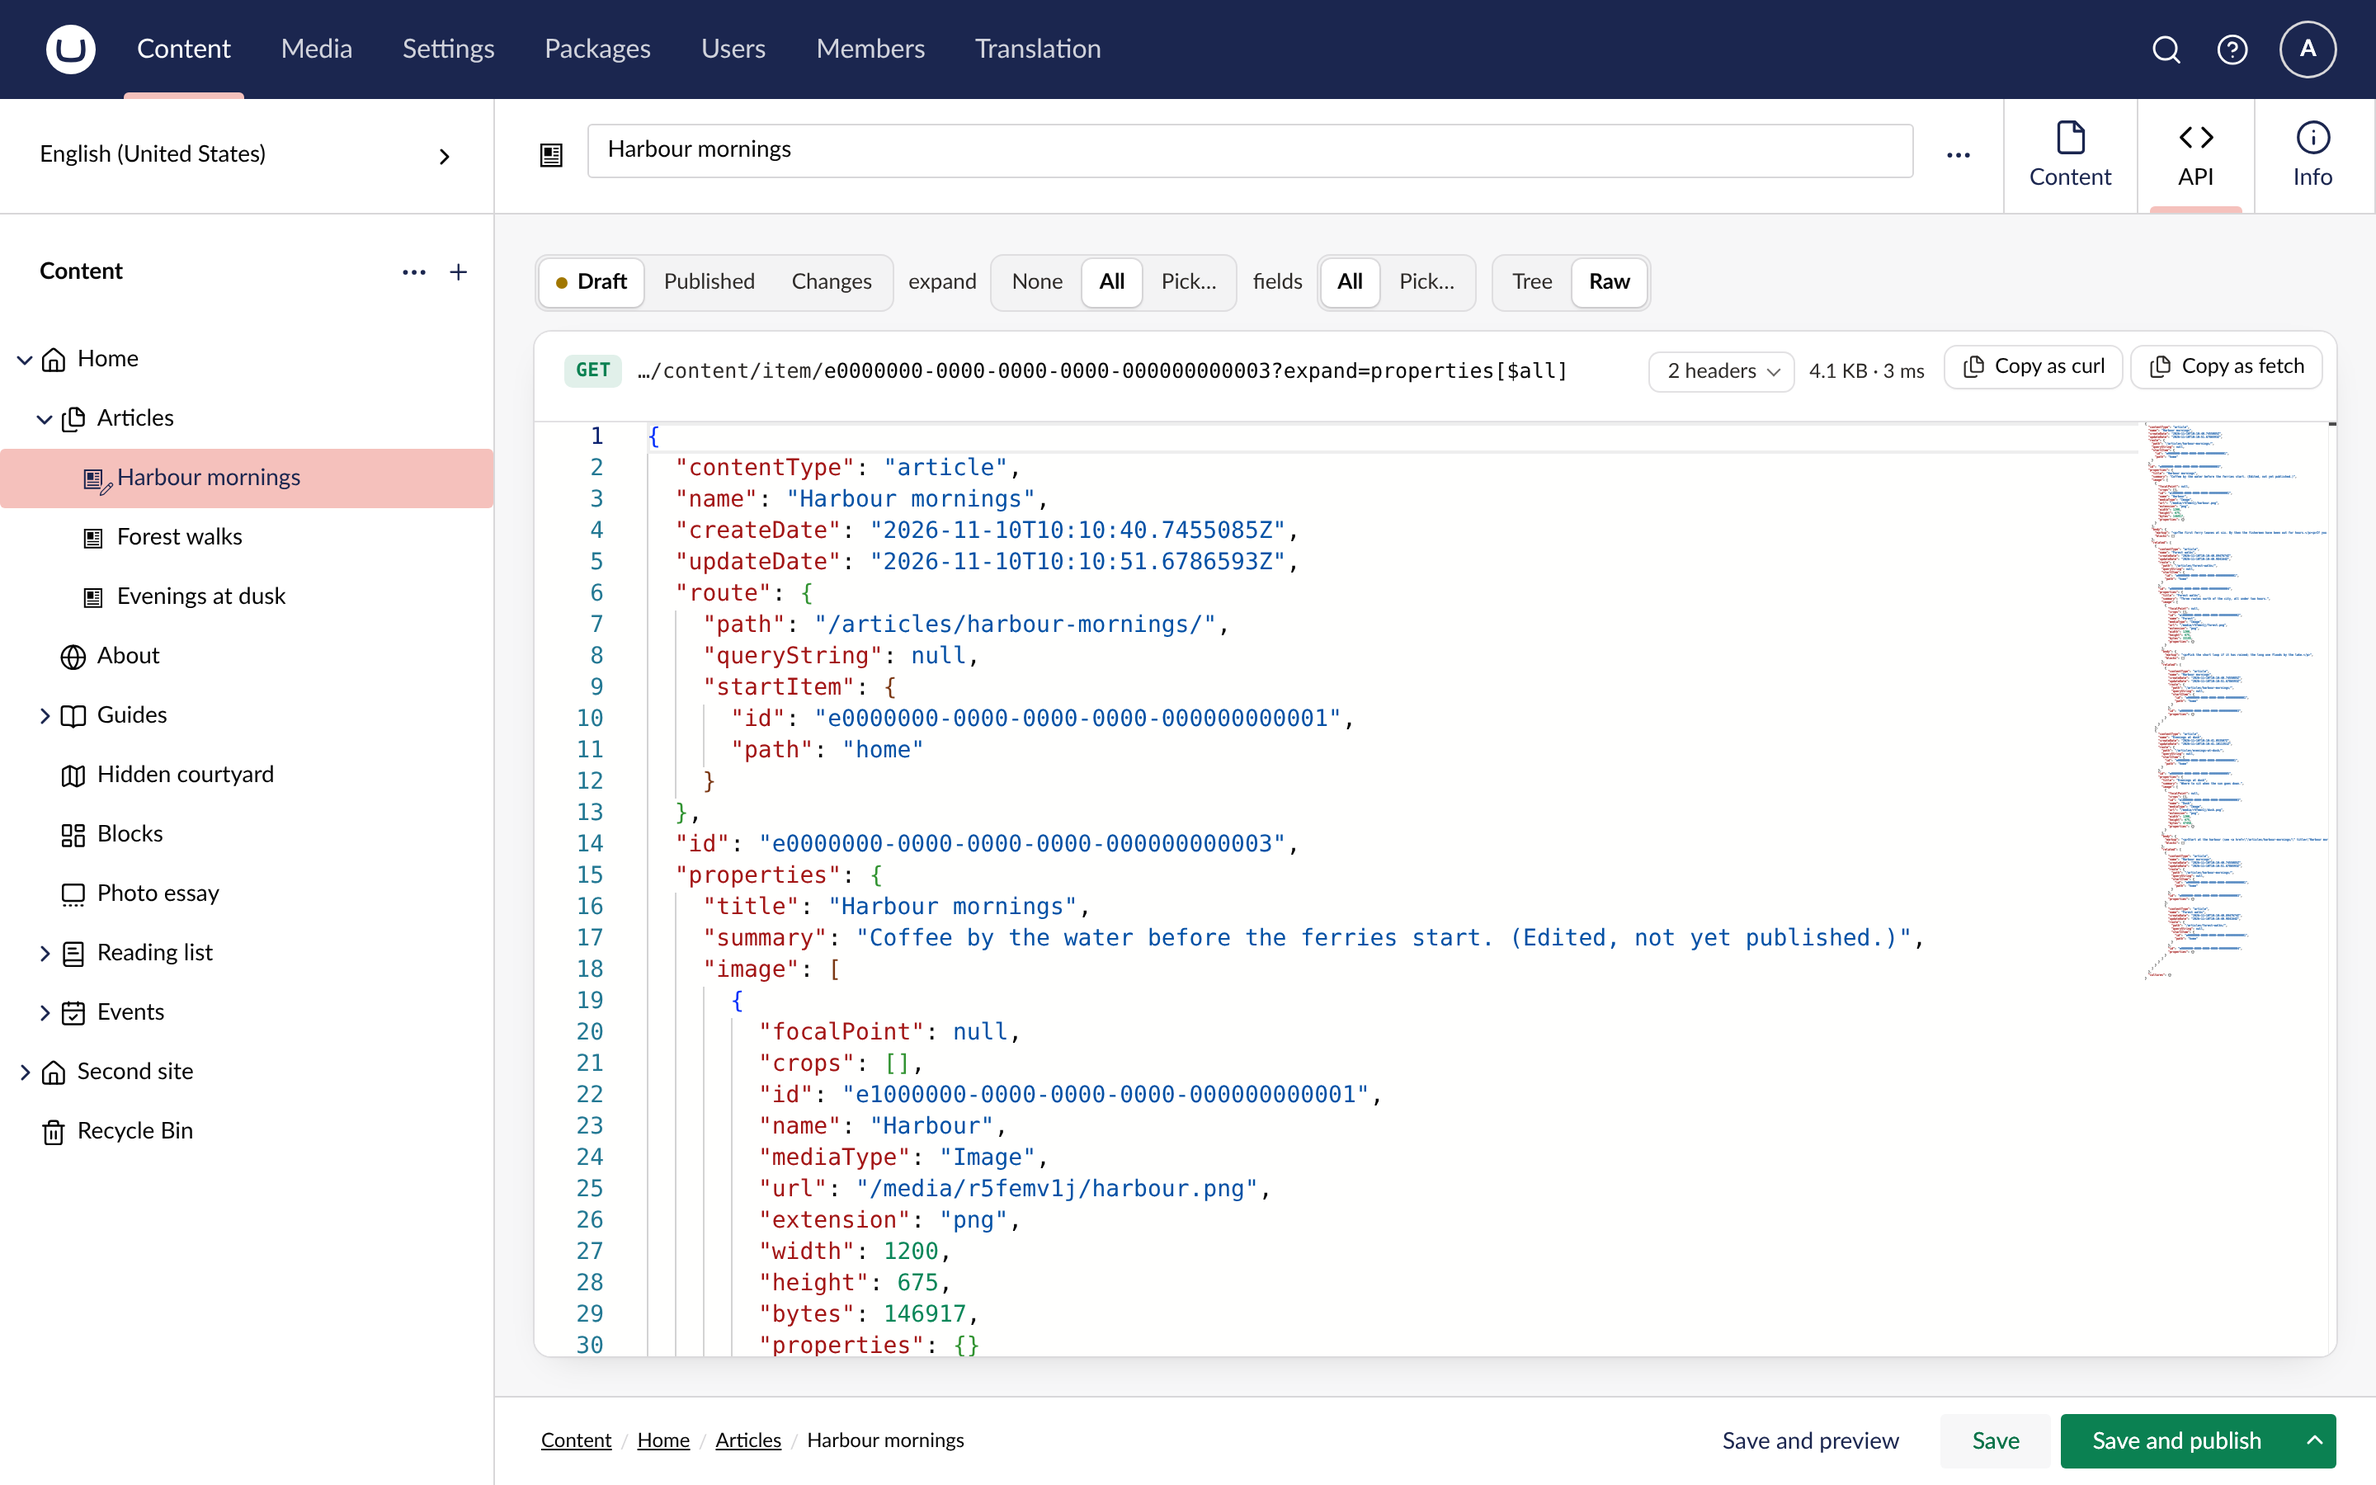
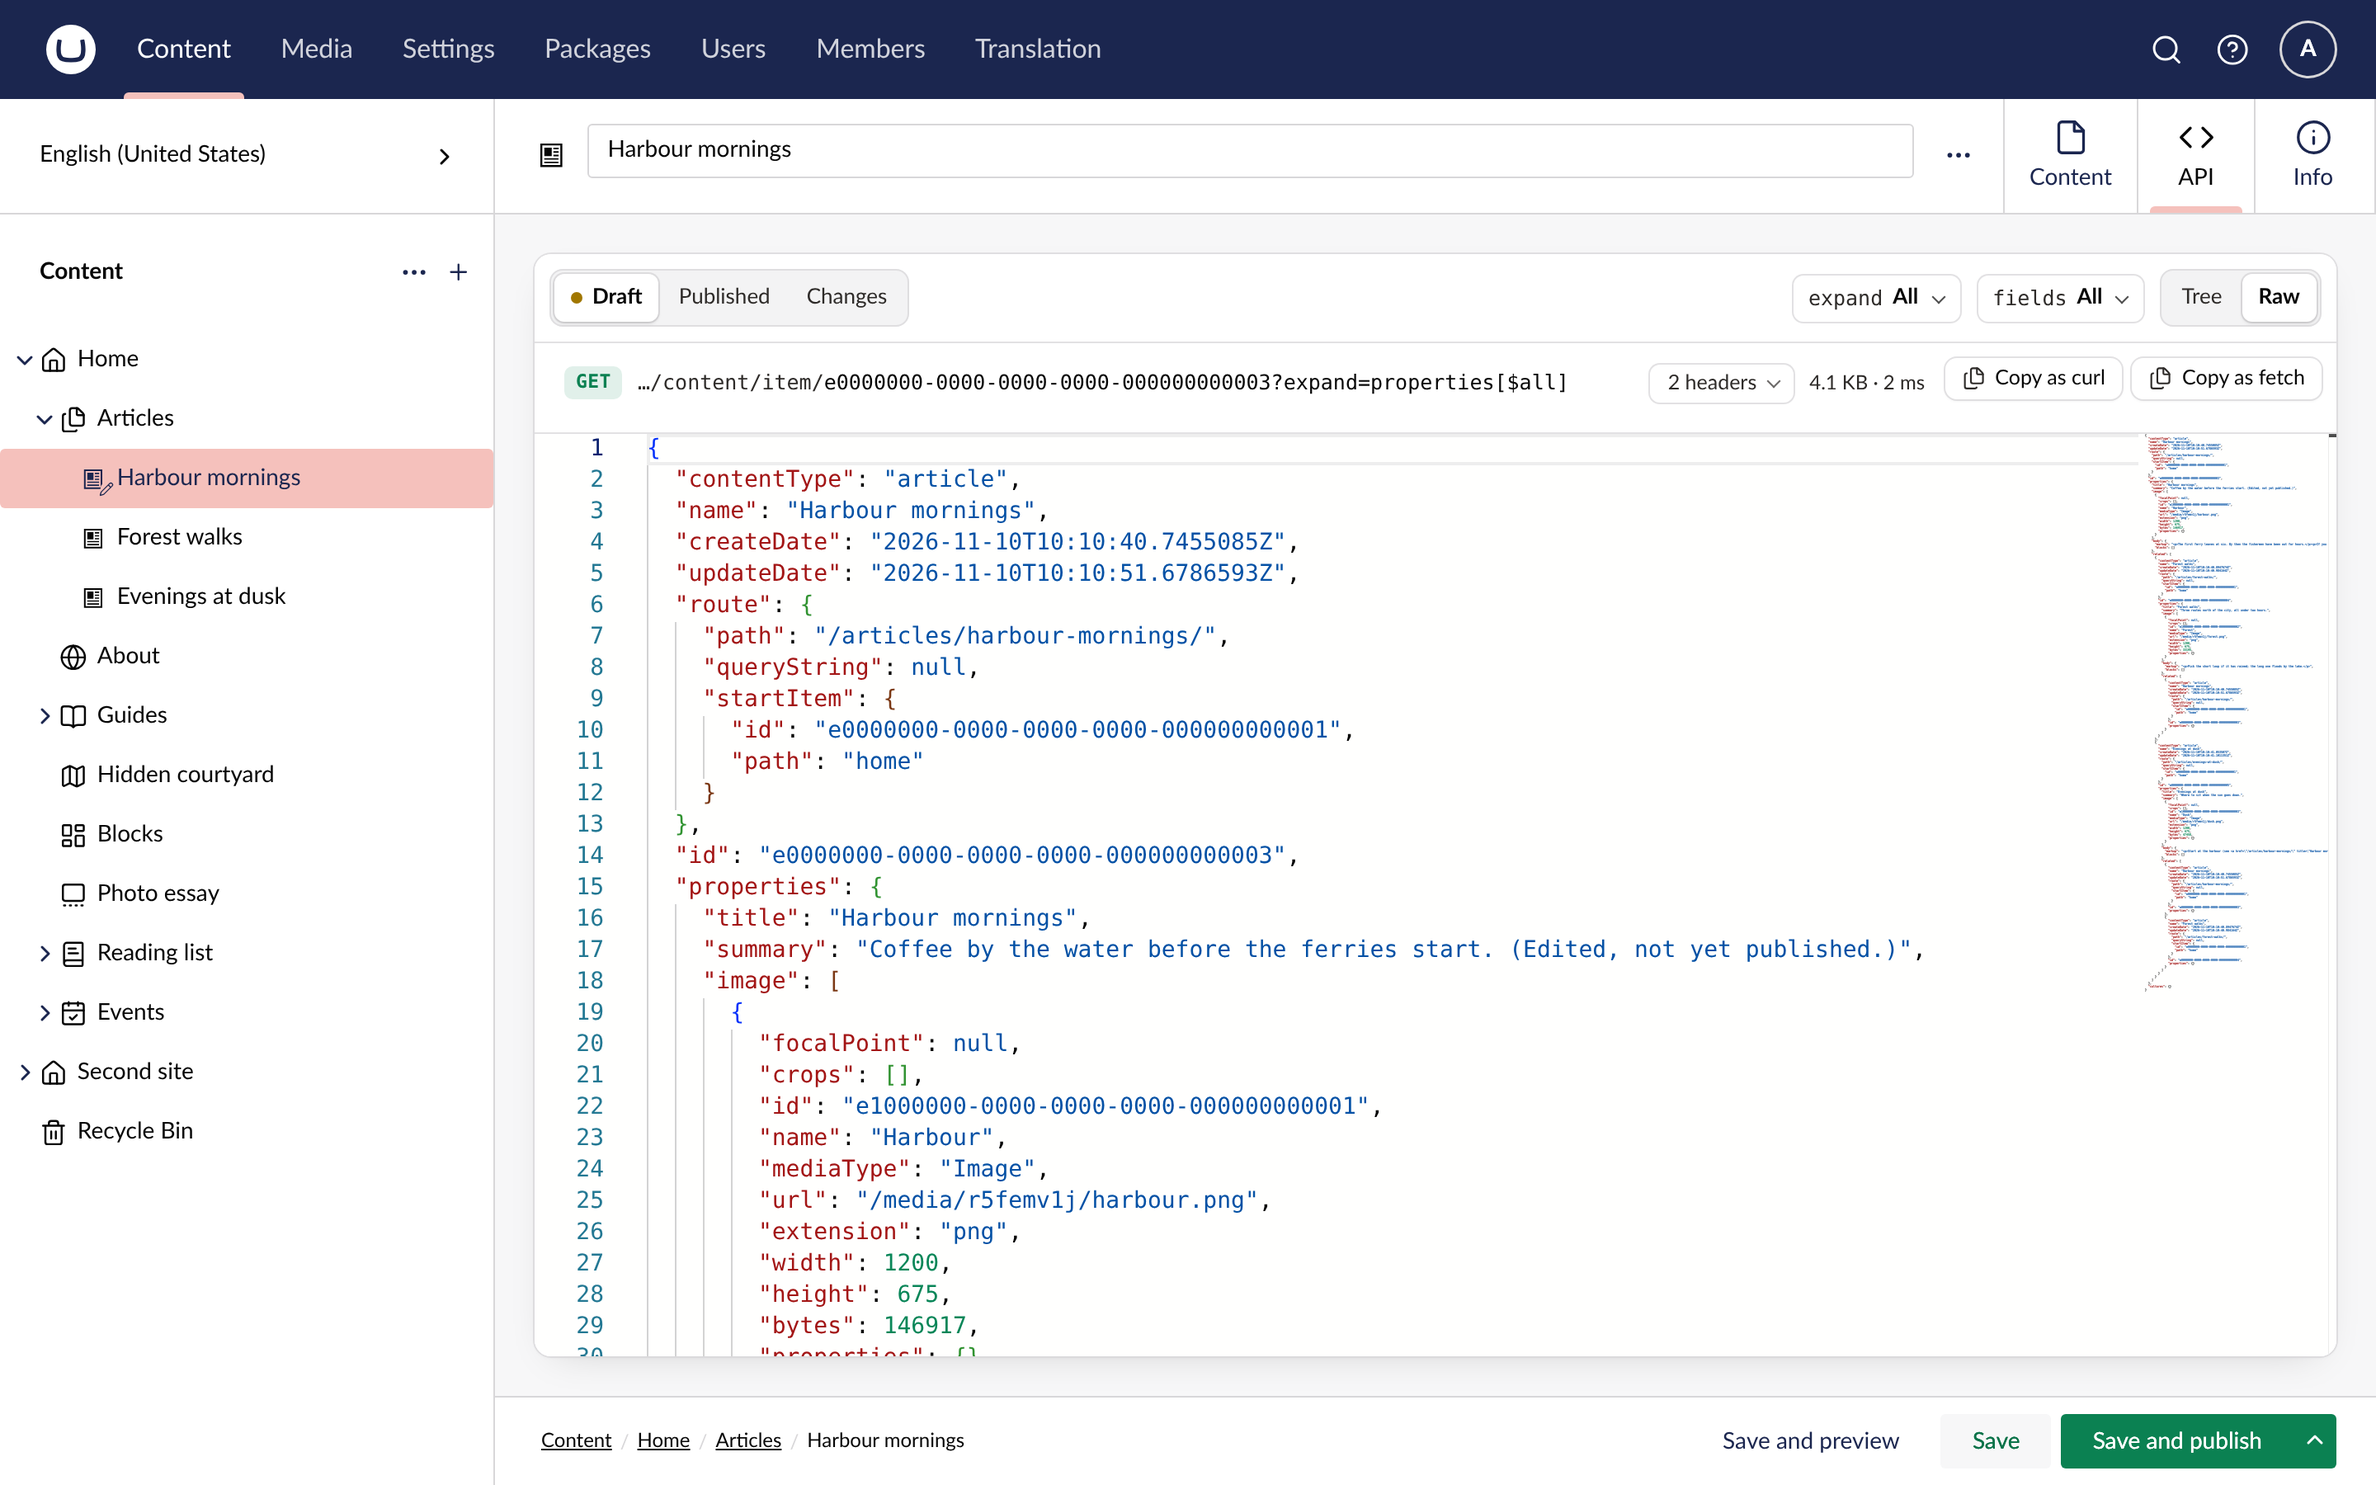
Fold the toolbar into the response panel
The version switch, expand and fields (now compact dropdowns) and
Tree/Raw form the panel's own header row, with the request and a
borderless search row below it, so the tab reads as one viewer rather
than a row of separate controls.

diff --git a/src/TheBuilder.DeliveryApiInspector/Client/src/inspector-view.element.ts b/src/TheBuilder.DeliveryApiInspector/Client/src/inspector-view.element.ts
@@ -261,6 +261,18 @@ export class InspectorViewElement extends UmbElementMixin(LitElement) {
     </div>`;
   }
 
+  /** A compact dropdown for a request parameter, named as the API names it. */
+  #select<T extends string>(label: string, value: T, options: [T, string][], set: (value: T) => void) {
+    return html`<label class="select">
+      <span class="label">${label}</span>
+      <span class="value" aria-hidden="true">${options.find(([option]) => option === value)?.[1]}</span>
+      <select aria-label=${label} @change=${(event: Event) => set((event.target as HTMLSelectElement).value as T)}>
+        ${options.map(([option, text]) => html`<option value=${option} ?selected=${option === value}>${text}</option>`)}
+      </select>
+      <span class="caret" aria-hidden="true"></span>
+    </label>`;
+  }
+
   #picker(title: string, chosen: string[], set: (aliases: string[]) => void, hint: string) {
     return html`<div class="picker">
       <div class="picker-head"><strong>${title}</strong><span>${hint}</span>
@@ -290,45 +302,34 @@ export class InspectorViewElement extends UmbElementMixin(LitElement) {
         ? "The Media Delivery API is turned off (DeliveryApi:Media:Enabled). This is what it would return."
         : undefined;
 
+    const fieldsChoice = this._fieldsOpen || this._fieldsPick.length ? "pick" : "all";
     return html`
-      <div class="toolbar">
-        ${isContent
-          ? html`<div class="segmented" role="group" aria-label="Version"><span class="track">
-              <button type="button" aria-pressed=${String(this._mode === "draft")} @click=${() => (this._mode = "draft")}
-                title=${draftDiffers ? "The draft has changes that are not published" : "The latest saved version, as Preview: true returns it"}>
-                ${draftDiffers ? html`<span class="dot" aria-hidden="true"></span>` : nothing}Draft</button>
-              <button type="button" aria-pressed=${String(this._mode === "published")} ?disabled=${!this._published}
-                title=${this._published ? "What frontends get today" : "Not published yet"} @click=${() => (this._mode = "published")}>Published</button>
-              <button type="button" aria-pressed=${String(this._mode === "changes")} ?disabled=${!this._published}
-                title="What publishing the draft would change" @click=${() => (this._mode = "changes")}>Changes
-                ${this._mode === "changes" && this._changes ? html`<span class="count">${this._changes.size}</span>` : nothing}</button>
-            </span></div>`
-          : nothing}
-        ${isContent && this._mode === "changes" && this._view === "tree"
-          ? this.#segmented("Changes as", this._changeStyle, [["diff", "Diff", "A red line for published and a green line for the draft"], ["inline", "Inline", "Published struck through, next to the draft"]], (value) => (this._changeStyle = value))
-          : nothing}
-        ${this.#segmented<Expand>("expand", this._expand, [["none", "None", "No expand parameter"], ["all", "All", "expand=properties[$all]"], ["pick", "Pick…", "Choose the properties to expand"]], (value) => (this._expand = value))}
-        <div class="segmented" role="group" aria-label="fields">
-          <span class="label" aria-hidden="true">fields</span>
-          <span class="track"><button type="button" aria-pressed=${String(!this._fieldsPick.length && !this._fieldsOpen)} title="Every property" @click=${() => { this._fieldsPick = []; this._fieldsOpen = false; }}>All</button>
-          <button type="button" aria-pressed=${String(this._fieldsOpen || !!this._fieldsPick.length)} title="Choose the properties to return" @click=${() => (this._fieldsOpen = !this._fieldsOpen)}>Pick…</button></span>
-        </div>
-        ${this.#segmented("View", this._view, [["tree", "Tree"], ["raw", "Raw", "Read-only JSON in the code editor"]], (value) => (this._view = value))}
-      </div>
-      ${this._expand === "pick" ? this.#picker("Expand", this._expandPick, (aliases) => (this._expandPick = aliases), "Pickers and blocks whose items come back with their properties.") : nothing}
-      ${this._fieldsOpen || this._fieldsPick.length ? this.#picker("Fields", this._fieldsPick, (aliases) => (this._fieldsPick = aliases), "Only these properties come back. None chosen means all.") : nothing}
-      ${this._view === "tree"
-        ? html`<div class="toolbar">
-            <uui-input class="search" label="Search keys and values" placeholder="Search keys and values, or type a path like properties.image[0].url"
-              .value=${this._query} @input=${(event: InputEvent) => (this._query = (event.target as HTMLInputElement).value)}
-              @keydown=${(event: KeyboardEvent) => { if (event.key === "Enter") { event.preventDefault(); this.shadowRoot?.querySelector("thebuilder-json-tree")?.next(event.shiftKey ? -1 : 1); } }}>
-              <uui-icon name="icon-search" slot="prepend"></uui-icon>
-              <span slot="append" class="hits">${this.#hitsLabel()}</span>
-            </uui-input>
-            ${this.#segmented("Open levels", this._depth, [[1, "1", "Show the tree one level deep"], [2, "2", "Two levels deep"], [3, "3", "Three levels deep"], [99, "All", "Open every level"]], (value) => { this._depth = value; this.shadowRoot?.querySelector("thebuilder-json-tree")?.reset(); })}
-          </div>`
-        : nothing}
       <section class="panel" aria-label="Response">
+        <div class="chrome">
+          ${isContent
+            ? html`<div class="segmented" role="group" aria-label="Version"><span class="track">
+                <button type="button" aria-pressed=${String(this._mode === "draft")} @click=${() => (this._mode = "draft")}
+                  title=${draftDiffers ? "The draft has changes that are not published" : "The latest saved version, as Preview: true returns it"}>
+                  ${draftDiffers ? html`<span class="dot" aria-hidden="true"></span>` : nothing}Draft</button>
+                <button type="button" aria-pressed=${String(this._mode === "published")} ?disabled=${!this._published}
+                  title=${this._published ? "What frontends get today" : "Not published yet"} @click=${() => (this._mode = "published")}>Published</button>
+                <button type="button" aria-pressed=${String(this._mode === "changes")} ?disabled=${!this._published}
+                  title="What publishing the draft would change" @click=${() => (this._mode = "changes")}>Changes
+                  ${this._mode === "changes" && this._changes ? html`<span class="count">${this._changes.size}</span>` : nothing}</button>
+              </span></div>`
+            : nothing}
+          ${isContent && this._mode === "changes" && this._view === "tree"
+            ? this.#segmented("Changes as", this._changeStyle, [["diff", "Diff", "A red line for published and a green line for the draft"], ["inline", "Inline", "Published struck through, next to the draft"]], (value) => (this._changeStyle = value))
+            : nothing}
+          <span class="spacer"></span>
+          ${this.#select<Expand>("expand", this._expand, [["none", "None"], ["all", "All"], ["pick", "Pick…"]], (value) => (this._expand = value))}
+          ${this.#select<"all" | "pick">("fields", fieldsChoice, [["all", "All"], ["pick", "Pick…"]], (value) => {
+            if (value === "all") { this._fieldsPick = []; this._fieldsOpen = false; } else this._fieldsOpen = true;
+          })}
+          ${this.#segmented("View", this._view, [["tree", "Tree"], ["raw", "Raw", "Read-only JSON in the code editor"]], (value) => (this._view = value))}
+        </div>
+        ${this._expand === "pick" ? this.#picker("Expand", this._expandPick, (aliases) => (this._expandPick = aliases), "Pickers and blocks whose items come back with their properties.") : nothing}
+        ${fieldsChoice === "pick" ? this.#picker("Fields", this._fieldsPick, (aliases) => (this._fieldsPick = aliases), "Only these properties come back. None chosen means all.") : nothing}
         <div class="panel-header">
         ${request
           ? html`<div class="request">
@@ -356,6 +357,16 @@ export class InspectorViewElement extends UmbElementMixin(LitElement) {
             : nothing}
         </div>
         </div>
+        ${this._view === "tree"
+          ? html`<div class="find">
+              <uui-icon name="icon-search"></uui-icon>
+              <input class="search" type="search" aria-label="Search keys and values" placeholder="Search keys and values, or type a path like properties.image[0].url"
+                .value=${this._query} @input=${(event: InputEvent) => (this._query = (event.target as HTMLInputElement).value)}
+                @keydown=${(event: KeyboardEvent) => { if (event.key === "Enter") { event.preventDefault(); this.shadowRoot?.querySelector("thebuilder-json-tree")?.next(event.shiftKey ? -1 : 1); } }} />
+              <span class="hits">${this.#hitsLabel()}</span>
+              ${this.#segmented("Open levels", this._depth, [[1, "1", "Show the tree one level deep"], [2, "2", "Two levels deep"], [3, "3", "Three levels deep"], [99, "All", "Open every level"]], (value) => { this._depth = value; this.shadowRoot?.querySelector("thebuilder-json-tree")?.reset(); })}
+            </div>`
+          : nothing}
         ${offNote ? html`<p class="note">${offNote}</p>` : nothing}
         <div class="body">${this.#body()}</div>
       </section>
@@ -427,11 +438,72 @@ export class InspectorViewElement extends UmbElementMixin(LitElement) {
         min-height: 0;
         overflow: auto;
       }
-      .toolbar {
+      /* The viewer's own header: which version, then the request parameters and the view on the right. */
+      .chrome {
         display: flex;
         flex-wrap: wrap;
         gap: var(--uui-size-space-3);
         align-items: center;
+        padding: var(--uui-size-space-3);
+        background: var(--uui-color-surface);
+        border-bottom: 1px solid var(--inspector-line);
+      }
+      .spacer {
+        flex: 1;
+      }
+      .select {
+        position: relative;
+        display: inline-flex;
+        align-items: center;
+        gap: 6px;
+        height: 30px;
+        padding: 0 26px 0 10px;
+        border-radius: 7px;
+        font-size: 13px;
+        box-shadow: inset 0 0 0 1px var(--inspector-line);
+        cursor: pointer;
+      }
+      .select:hover {
+        background: var(--inspector-track);
+      }
+      .select:focus-within {
+        outline: 2px solid var(--uui-color-focus);
+      }
+      .select .label {
+        font: 12.5px var(--uui-font-monospace, monospace);
+        color: var(--uui-color-text-alt);
+      }
+      .select .value {
+        font-weight: 600;
+        color: var(--uui-color-text);
+      }
+      /* The native select covers the whole pill unseen, so a click anywhere opens its options and the
+         keyboard and screen readers get a real select. */
+      .select select {
+        position: absolute;
+        inset: 0;
+        width: 100%;
+        opacity: 0;
+        cursor: pointer;
+        font-size: 13px;
+      }
+      .select .caret {
+        position: absolute;
+        right: 11px;
+        top: 50%;
+        margin-top: -4px;
+        pointer-events: none;
+      }
+      .find {
+        display: flex;
+        align-items: center;
+        gap: var(--uui-size-space-3);
+        padding: 4px var(--uui-size-space-3) 4px var(--uui-size-space-5);
+        background: var(--uui-color-surface);
+        border-bottom: 1px solid var(--inspector-line);
+      }
+      .find > uui-icon {
+        color: var(--uui-color-text-alt);
       }
       /* A track with the chosen option raised out of it, so the current choice reads at a glance. */
       /* The label sits outside the track as plain text, so only the options look clickable. */
@@ -502,12 +574,19 @@ export class InspectorViewElement extends UmbElementMixin(LitElement) {
         color: var(--uui-color-warning-contrast, #000);
       }
       .search {
+        all: unset;
         flex: 1;
-        min-width: 240px;
+        min-width: 160px;
+        height: 34px;
+        font-size: 13.5px;
+        color: var(--uui-color-text);
       }
-      .search uui-icon {
-        padding-left: var(--uui-size-space-3);
+      .search::-webkit-search-cancel-button {
+        display: none;
+      }
+      .search::placeholder {
         color: var(--uui-color-text-alt);
+        opacity: 0.8;
       }
       .hits {
         padding: 0 var(--uui-size-space-3);
@@ -518,9 +597,8 @@ export class InspectorViewElement extends UmbElementMixin(LitElement) {
       .picker {
         display: grid;
         gap: var(--uui-size-space-2);
-        padding: var(--uui-size-space-3) var(--uui-size-space-4);
-        border: 1px solid var(--uui-color-border);
-        border-radius: var(--uui-border-radius);
+        padding: var(--uui-size-space-3) var(--uui-size-space-5);
+        border-bottom: 1px solid var(--inspector-line);
         background: var(--uui-color-surface);
       }
       .picker-head {
